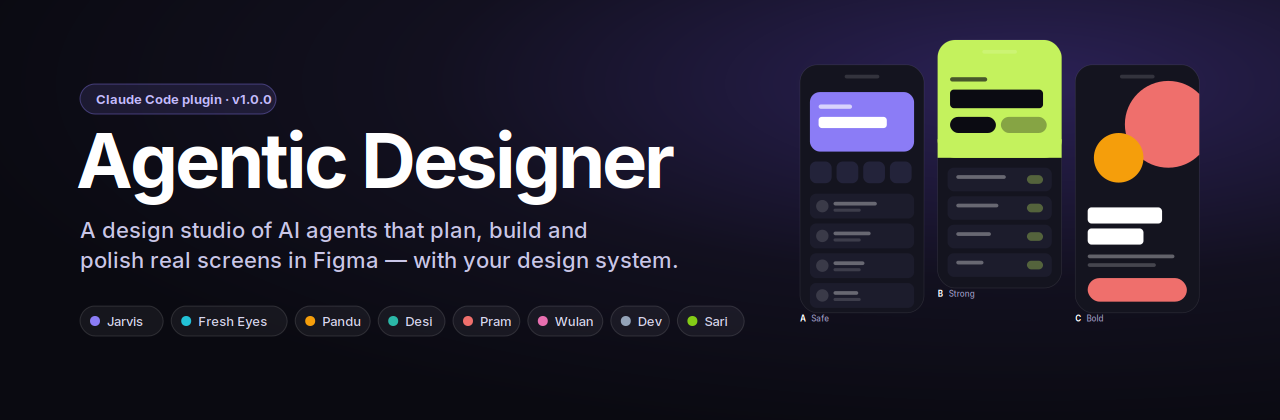
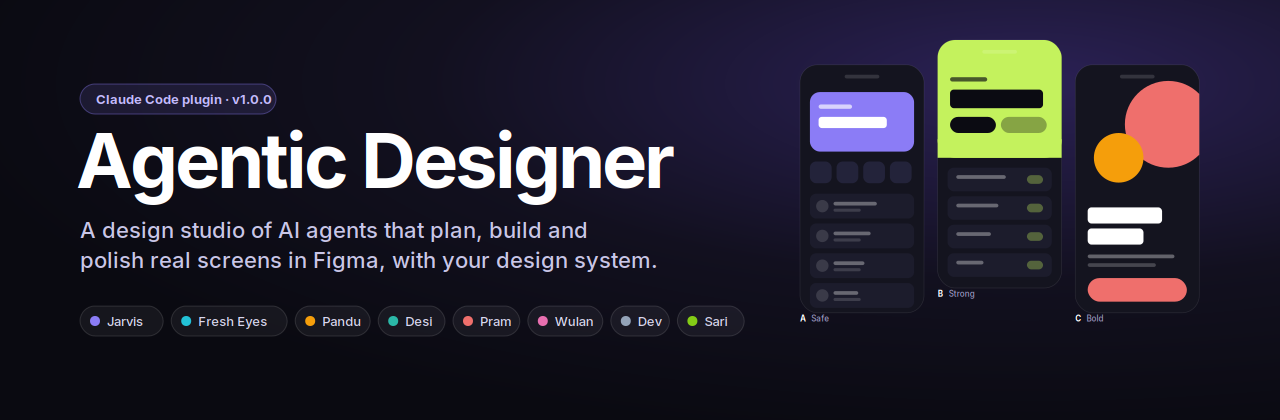
Remove em dashes

Changed region(s): [[0.2812, 0.5881, 0.5312, 0.65]]

diff --git a/README.md b/README.md
@@ -1,4 +1,4 @@
-<p align="center"><img src="docs/assets/banner.png" alt="Agentic Designer — a design studio of Claude Code agents" width="100%"></p>
+<p align="center"><img src="docs/assets/banner.png" alt="Agentic Designer: a design studio of Claude Code agents" width="100%"></p>
 
 <p align="center">
   <img alt="version" src="https://img.shields.io/badge/version-1.0.0-8b7cf6">
@@ -9,21 +9,21 @@
 
 **Agentic Designer** turns Claude Code into a small product-design studio. You brief it like a design lead; **Jarvis**, a
 senior product-designer agent, plans in a few lines, builds real screens in Figma with *your* design system, looks at what it
-built, polishes it, and checks it with a lint script — then a separate critic reviews it with fresh eyes.
+built, polishes it, and checks it with a lint script, then a separate critic reviews it with fresh eyes.
 
 
 ## What it does
-- **Designs and builds in Figma** — real components and tokens from your DS, any industry and visual style, phones,
+- **Designs and builds in Figma**: real components and tokens from your DS, any industry and visual style, phones,
   tablets, web, foldables (Fold/Flip) and dual-screen devices in portrait and landscape, with min/max-width specs for devs.
-- **Explores** — `/explore` builds three genuinely different directions (safe · strong · bold), never three recolors.
-- **Reviews itself honestly** — Fresh Eyes sees only screenshots, your taste file and a rubric; a pixel-diff mode checks small edits.
-- **Remembers your design system** — `/add-ds` reads it once (tokens per brand × theme, sizes, fonts, component keys); after
+- **Explores**: `/explore` builds three genuinely different directions (safe · strong · bold), never three recolors.
+- **Reviews itself honestly**: Fresh Eyes sees only screenshots, your taste file and a rubric; a pixel-diff mode checks small edits.
+- **Remembers your design system**: `/add-ds` reads it once (tokens per brand × theme, sizes, fonts, component keys); after
   that agents stop re-querying Figma. `/new-brand` and `/optimize-brand` manage brand modes safely (preview → dry run → one mode).
-- **Prototypes** — interactive HTML with a device viewer (phone, landscape, foldable, dual-screen) or clickable Figma flows.
-- **Motion** — Figma Smart Animate, **Lottie JSON**, or a dev spec (durations, easings) from your motion tokens.
-- **Writes the documents** — PRDs and change summaries in a fixed, reviewable format.
-- **Keeps the canvas clean** — no notes or annotations in your files; explanations stay in chat.
-- **Shows its work** — a live 3D office where you can watch the agents walk to their desks, grab skills, and hand off.
+- **Prototypes**: interactive HTML with a device viewer (phone, landscape, foldable, dual-screen) or clickable Figma flows.
+- **Motion**: Figma Smart Animate, **Lottie JSON**, or a dev spec (durations, easings) from your motion tokens.
+- **Writes the documents**: PRDs and change summaries in a fixed, reviewable format.
+- **Keeps the canvas clean**: no notes or annotations in your files; explanations stay in chat.
+- **Shows its work**: a live 3D office where you can watch the agents walk to their desks, grab skills, and hand off.
 
 ## How it works
 ```mermaid
@@ -40,7 +40,7 @@ flowchart LR
 
 | Agent | Role | Model |
 |---|---|---|
-| **Jarvis** | Lead product designer — plans, builds, polishes in Figma | Opus |
+| **Jarvis** | Lead product designer, plans, builds, polishes in Figma | Opus |
 | **Fresh Eyes** | Independent visual critic (screenshots + taste + rubric only) | Sonnet |
 | **Pandu** | Prototypes (HTML / Figma), motion, Lottie | Opus |
 | **Desi** | Design systems, brand modes, DS change proposals | Opus |
@@ -62,12 +62,12 @@ flowchart LR
 Requirements: [Claude Code](https://docs.claude.com/en/docs/claude-code/overview), the **Figma MCP** connected (Full seat for
 editing), Node.js 18+ (for scripts and the office).
 
-**Option A — from GitHub (auto-updates):**
+**Option A, from GitHub (auto-updates):**
 ```bash
 claude plugin marketplace add https://github.com/reyhan-ak-design/agentic-designer.git
 claude plugin install agentic-designer@agentic-designer-marketplace --scope project
 ```
-**Option B — Claude desktop app:** download `agentic-designer-personal-plugin-v1.0.0.zip` from Releases →
+**Option B, Claude desktop app:** download `agentic-designer-personal-plugin-v1.0.0.zip` from Releases →
 **Customize → Plugins → + → Upload plugin**.
 
 Then, in your design workspace: `/init` → `/doctor` → `/add-ds <your Figma DS link>` (or try the built-in demo DS) → brief Jarvis.
@@ -88,10 +88,10 @@ Then, in your design workspace: `/init` → `/doctor` → `/add-ds <your Figma D
 
 ## Example briefs
 ```
-/explore Home for a crypto app "Kora", iOS 390×844 — feel: confident, premium, calm. Default only.
-/fold home.wallet.default — Galaxy Z Fold cover + inner, portrait and landscape
+/explore Home for a crypto app "Kora", iOS 390×844, feel: confident, premium, calm. Default only.
+/fold home.wallet.default, Galaxy Z Fold cover + inner, portrait and landscape
 /new-brand Acme Pay
-/prototype Top-up flow: pick amount, choose VA or QRIS, PIN, success/failed — HTML + foldable
+/prototype Top-up flow: pick amount, choose VA or QRIS, PIN, success/failed, HTML + foldable
 ```
 
 ## Quality & safety

diff --git a/plugins/agentic-designer/CHANGELOG.md b/plugins/agentic-designer/CHANGELOG.md
@@ -1,8 +1,8 @@
 # Changelog
 
-## 1.0.0 — 2026-10-13 — first public release
+## 1.0.0 (2026-10-13): first public release
 - **Jarvis**, a god-level product designer agent that plans in ≤ 15 lines, builds real screens in Figma with your design system,
-  polishes them from screenshots, and checks them with a lint script — for every industry, style, and device (incl. foldables).
+  polishes them from screenshots, and checks them with a lint script, for every industry, style, and device (incl. foldables).
 - **Fresh Eyes** critic (sees only screenshots, taste, and rubric) with a cheap pixel-diff mode.
 - **Pandu** for prototypes (HTML with a device viewer, or Figma) and motion (Figma, Lottie JSON, or dev spec).
 - **Desi** for design systems: `/add-ds` stores your DS once; `/new-brand` and `/optimize-brand` manage brand modes safely.
